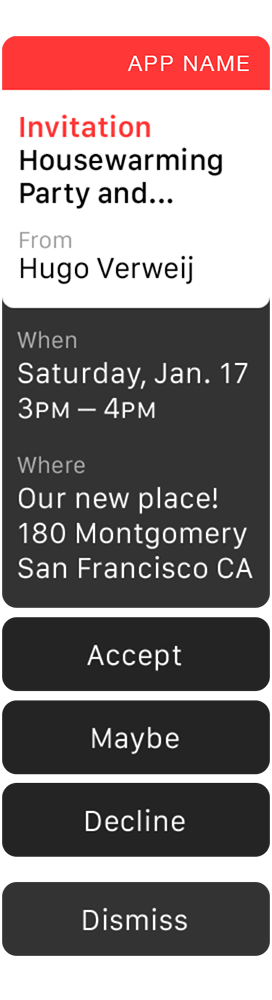
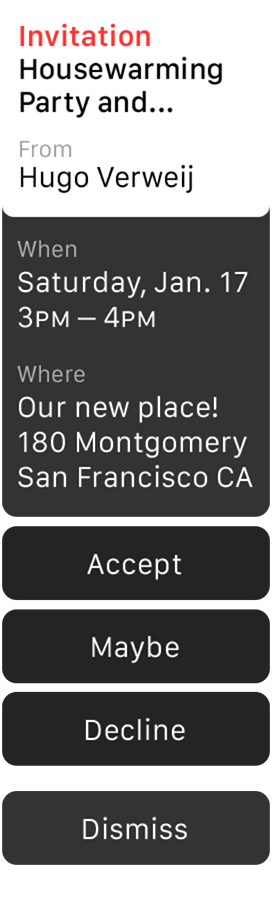
Fixes.

diff --git a/css/main.css b/css/main.css
@@ -68,7 +68,7 @@ strong {
   .app__watch {
     width:  220px;
     height: 245px;
-    margin: 20px auto 5px;
+    margin: 20px auto 15px;
     padding-left: 10px;
   }
 
@@ -96,20 +96,36 @@ strong {
 
   .app__controls {
     text-align: center;
+    font-size: 0;
   }
 
     .app__controls > button {
+      vertical-align: top;
       font-family: inherit;
+      font-size: 12px;
+      width: 76px;
       border: none;
       outline: none;
-      padding: 3px 7px;
-      border-radius: 2px;
-      background-color: #fff;
+      padding: 3px;
+      background-color: #f0f0f0;
+      color: #333;
+      box-shadow: 0 0 0 1px #333;
       cursor: pointer;
+      -webkit-transition: .4s ease-in-out;
+              transition: .4s ease-in-out;
     }
 
-    .app__controls > button:hover > .fa, .app__controls > button.active > .fa {
-      color: #03f;
+    .app__controls > button:first-child {
+      border-radius: 2px 0 0 2px;
+    }
+
+    .app__controls > button:last-child {
+      border-radius: 0 2px 2px 0;
+    }
+
+    .app__controls > button.active {
+      background-color: #f80;
+      color: #fff;
     }
 
   .app__title {
@@ -205,29 +221,29 @@ strong {
 
     .zoom > .icon--10 {opacity: 1; -webkit-transform: scale(6); transform: scale(6);}
 
-    .zoom > .icon--5 {-webkit-transform: translate3d(-51px,-88px,0) scale(1.5); transform: translate3d(-51px,-88px,0) scale(1.5);}
-    .zoom > .icon--6 {-webkit-transform: translate3d(51px,-88px,0) scale(1.5); transform: translate3d(51px,-88px,0) scale(1.5);}
-    .zoom > .icon--14 {-webkit-transform: translate3d(-51px,88px,0) scale(1.5); transform: translate3d(-51px,88px,0) scale(1.5);}
-    .zoom > .icon--15 {-webkit-transform: translate3d(51px,88px,0) scale(1.5); transform: translate3d(51px,88px,0) scale(1.5);}
+    .zoom > .icon--5 {-webkit-transform: translate3d( -51px,-88px,0) scale(1.5); transform: translate3d(-51px,-88px,0) scale(1.5);}
+    .zoom > .icon--6 {-webkit-transform: translate3d(  51px,-88px,0) scale(1.5); transform: translate3d( 51px,-88px,0) scale(1.5);}
+    .zoom > .icon--14 {-webkit-transform: translate3d(-51px, 88px,0) scale(1.5); transform: translate3d(-51px, 88px,0) scale(1.5);}
+    .zoom > .icon--15 {-webkit-transform: translate3d( 51px, 88px,0) scale(1.5); transform: translate3d( 51px, 88px,0) scale(1.5);}
 
     .zoom > .icon--9 {-webkit-transform: translate3d(-100px,0,0) scale(1.5); transform: translate3d(-100px,0,0) scale(1.5);}
-    .zoom > .icon--11 {-webkit-transform: translate3d(100px,0,0) scale(1.5); transform: translate3d(100px,0,0) scale(1.5);}
+    .zoom > .icon--11 {-webkit-transform: translate3d(100px,0,0) scale(1.5); transform: translate3d( 100px,0,0) scale(1.5);}
 
     .zoom > .icon--8 {-webkit-transform: translate3d(-118px,0,0) scale(1.5); transform: translate3d(-118px,0,0) scale(1.5);}
-    .zoom > .icon--12 {-webkit-transform: translate3d(118px,0,0) scale(1.5); transform: translate3d(118px,0,0) scale(1.5);}
+    .zoom > .icon--12 {-webkit-transform: translate3d(118px,0,0) scale(1.5); transform: translate3d( 118px,0,0) scale(1.5);}
 
-    .zoom > .icon--2 {-webkit-transform: translate3d(0,-108px,0) scale(1.5); transform: translate3d(0,-108px,0) scale(1.5);}
-    .zoom > .icon--18 {-webkit-transform: translate3d(0,108px,0) scale(1.5); transform: translate3d(0,108px,0) scale(1.5);}
+    .zoom > .icon--2 {-webkit-transform: translate3d( 0,-108px,0) scale(1.5); transform: translate3d(0,-108px,0) scale(1.5);}
+    .zoom > .icon--18 {-webkit-transform: translate3d(0, 108px,0) scale(1.5); transform: translate3d(0, 108px,0) scale(1.5);}
 
-    .zoom > .icon--1 {-webkit-transform: translate3d(-60px,-104px,0) scale(1.5); transform: translate3d(-60px,-104px,0) scale(1.5);}
-    .zoom > .icon--3 {-webkit-transform: translate3d(60px,-104px,0) scale(1.5); transform: translate3d(60px,-104px,0) scale(1.5);}
-    .zoom > .icon--17 {-webkit-transform: translate3d(-60px,104px,0) scale(1.5); transform: translate3d(-60px,104px,0) scale(1.5);}
-    .zoom > .icon--19 {-webkit-transform: translate3d(60px,104px,0) scale(1.5); transform: translate3d(60px,104px,0) scale(1.5);}
+    .zoom > .icon--1 {-webkit-transform: translate3d( -60px,-104px,0) scale(1.5); transform: translate3d(-60px,-104px,0) scale(1.5);}
+    .zoom > .icon--3 {-webkit-transform: translate3d(  60px,-104px,0) scale(1.5); transform: translate3d( 60px,-104px,0) scale(1.5);}
+    .zoom > .icon--17 {-webkit-transform: translate3d(-60px, 104px,0) scale(1.5); transform: translate3d(-60px, 104px,0) scale(1.5);}
+    .zoom > .icon--19 {-webkit-transform: translate3d( 60px, 104px,0) scale(1.5); transform: translate3d( 60px, 104px,0) scale(1.5);}
 
-    .zoom > .icon--4 {-webkit-transform: translate3d(-70px,-88px,0) scale(1.5); transform: translate3d(-70px,-88px,0) scale(1.5);}
-    .zoom > .icon--7 {-webkit-transform: translate3d(70px,-88px,0) scale(1.5); transform: translate3d(70px,-88px,0) scale(1.5);}
-    .zoom > .icon--13 {-webkit-transform: translate3d(-70px,88px,0) scale(1.5); transform: translate3d(-70px,88px,0) scale(1.5);}
-    .zoom > .icon--16 {-webkit-transform: translate3d(70px,88px,0) scale(1.5); transform: translate3d(70px,88px,0) scale(1.5);}
+    .zoom > .icon--4 {-webkit-transform: translate3d( -70px,-88px,0) scale(1.5); transform: translate3d(-70px,-88px,0) scale(1.5);}
+    .zoom > .icon--7 {-webkit-transform: translate3d(  70px,-88px,0) scale(1.5); transform: translate3d( 70px,-88px,0) scale(1.5);}
+    .zoom > .icon--13 {-webkit-transform: translate3d(-70px, 88px,0) scale(1.5); transform: translate3d(-70px, 88px,0) scale(1.5);}
+    .zoom > .icon--16 {-webkit-transform: translate3d( 70px, 88px,0) scale(1.5); transform: translate3d( 70px, 88px,0) scale(1.5);}
 
     .zoom > .icon--20 {-webkit-transform: translate3d(-48px,110px,0) scale(1.5); transform: translate3d(-48px,110px,0) scale(1.5);}
 
@@ -457,6 +473,18 @@ strong {
                 transition: .4s ease-in-out 1.5s;
         -webkit-transform: translate3d(0,0,0);
                 transform: translate3d(0,0,0);
+      }
+
+      .notification__img__header {
+        font-weight: 100;
+        text-transform: uppercase;
+        font-size: 11px;
+        text-align: right;
+        letter-spacing: 1px;
+        color: #fff;
+        padding: 7px 8px 7px 50px;
+        margin: 18px 1px 0;
+        border-radius: 7px 7px 0 0;
       }
 
       .notification__img > img {

diff --git a/index.html b/index.html
@@ -20,7 +20,7 @@
 
   <div class="app-wrapper">
     <div class="app-wrapper__pad">
-      <div class="app">
+      <div class="app js-watch">
         <div class="app__watch">
           <div class="app__watch__img">
             <div class="app__watch__img__screen">
@@ -83,6 +83,7 @@
 
                     <div class="notification__tape js-scroll">
                       <div class="notification__img">
+                        <div class="notification__img__header truncate" style="background-color: #ff3333">App Name</div>
                         <img src="images/app/notification.png">
                       </div>
 
@@ -99,9 +100,9 @@
 
         <div class="app__data">
           <div class="app__controls">
-            <button class="js-app-btn"><i class="fa fa-play"></i> App</button>
-            <button class="js-glance-btn"><i class="fa fa-play"></i> Glance</button>
-            <button class="js-notification-btn"><i class="fa fa-play"></i> Notification</button>
+            <button class="js-app-btn">App</button>
+            <button class="js-glance-btn">Glance</button>
+            <button class="js-notification-btn">Notification</button>
           </div>
 
           <div class="app__title">Lorem Ipsum</div>
@@ -127,9 +128,9 @@
 
         <div class="app__data">
           <div class="app__controls">
-            <button><i class="fa fa-play"></i> App</button>
-            <button><i class="fa fa-play"></i> Glance</button>
-            <button><i class="fa fa-play"></i> Notification</button>
+            <button>App</button>
+            <button>Glance</button>
+            <button>Notification</button>
           </div>
 
           <div class="app__title">Lorem Ipsum</div>
@@ -155,9 +156,9 @@
 
         <div class="app__data">
           <div class="app__controls">
-            <button><i class="fa fa-play"></i> App</button>
-            <button><i class="fa fa-play"></i> Glance</button>
-            <button><i class="fa fa-play"></i> Notification</button>
+            <button>App</button>
+            <button>Glance</button>
+            <button>Notification</button>
           </div>
 
           <div class="app__title">Lorem Ipsum</div>

diff --git a/js/main.js b/js/main.js
@@ -73,8 +73,6 @@ $(function () {
       baseStage.removeClass('zoom');
 
       appButton.removeClass('active');
-      appButton.children('.fa').removeClass('fa-pause');
-      appButton.children('.fa').addClass('fa-play');
 
       appStage.empty();
       appStage.removeClass('active');
@@ -83,9 +81,6 @@ $(function () {
     } else if (player == 'glance') {
       glanceButton.removeClass('active');
 
-      glanceButton.children('.fa').removeClass('fa-circle');
-      glanceButton.children('.fa').addClass('fa-play');
-
       glanceStage.removeClass('animate');
       glanceStage.parent().removeClass('blur');
 
@@ -93,9 +88,6 @@ $(function () {
       glancePlaying = false;
     } else if (player == 'notification') {
       notificationButton.removeClass('active');
-
-      notificationButton.children('.fa').removeClass('fa-circle');
-      notificationButton.children('.fa').addClass('fa-play');
 
       notificationStage.removeClass('active animate');
 
@@ -114,8 +106,6 @@ $(function () {
       baseStage.addClass('zoom');
 
       appButton.addClass('active');
-      appButton.children('.fa').removeClass('fa-play');
-      appButton.children('.fa').addClass('fa-pause');
 
       var animatedSrc = appStage.data('url');
       var img = '<img src="'+ animatedSrc +'" width="136" height="170" >';
@@ -131,9 +121,6 @@ $(function () {
     } else if (player == 'glance') {
       glanceButton.addClass('active');
 
-      glanceButton.children('.fa').removeClass('fa-play');
-      glanceButton.children('.fa').addClass('fa-circle');
-
       glanceStage.addClass('active animate');
 
       glanceStage.parent().addClass('blur');
@@ -141,9 +128,6 @@ $(function () {
       glancePlaying = true;
     } else if (player == 'notification') {
       notificationButton.addClass('active');
-
-      notificationButton.children('.fa').removeClass('fa-play');
-      notificationButton.children('.fa').addClass('fa-circle');
 
       notificationStage.addClass('active animate');
 
